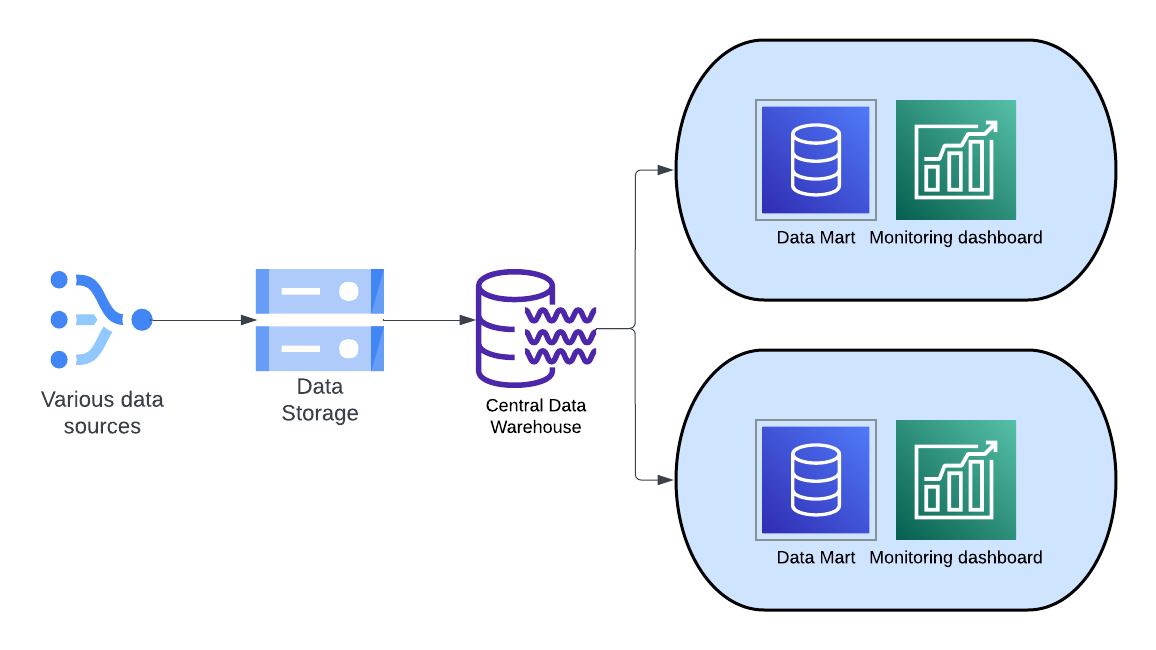
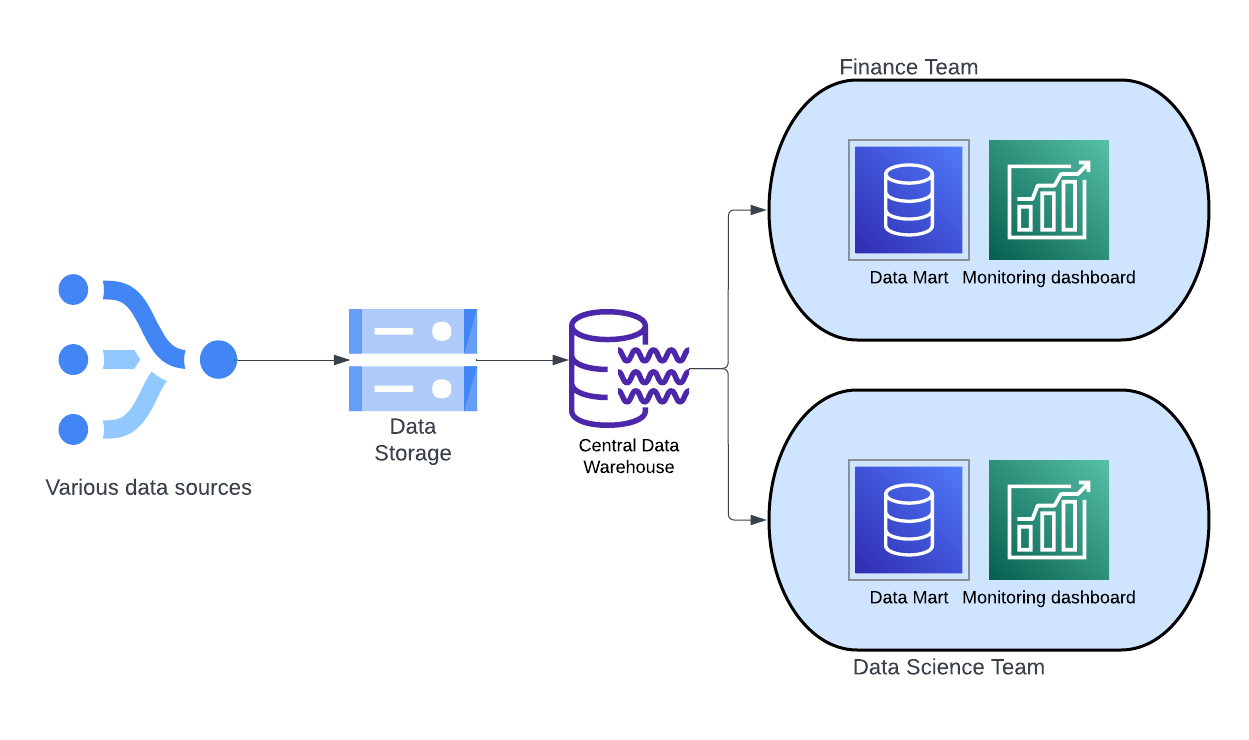
updated diagram

diff --git a/README.md b/README.md
@@ -21,6 +21,8 @@ Data science is another business vertical that the data engineers will interact 
 
 ![data_warehouse_diagrams](images/data_warehouse_diagrams.png)
 
+In this diagram, you can see how various data sources will converge into a data storage, then the data is cleaned and organized into a central data warehouse. From there, data is formed for specific business verticals, generating its own data mart. 
+
 ### What are the benefits of using a data warehouse as a data scientist?
 - Informed decision making, such as the performance of A/B testing
 - Consolidated data from many sources
